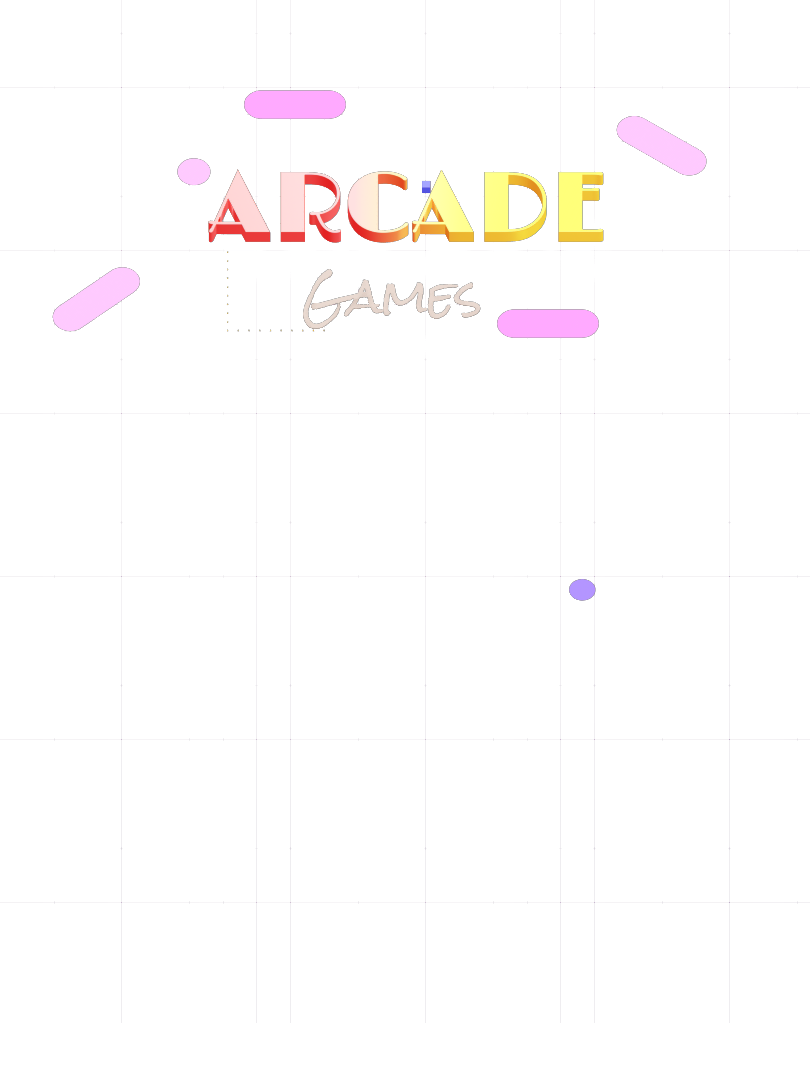
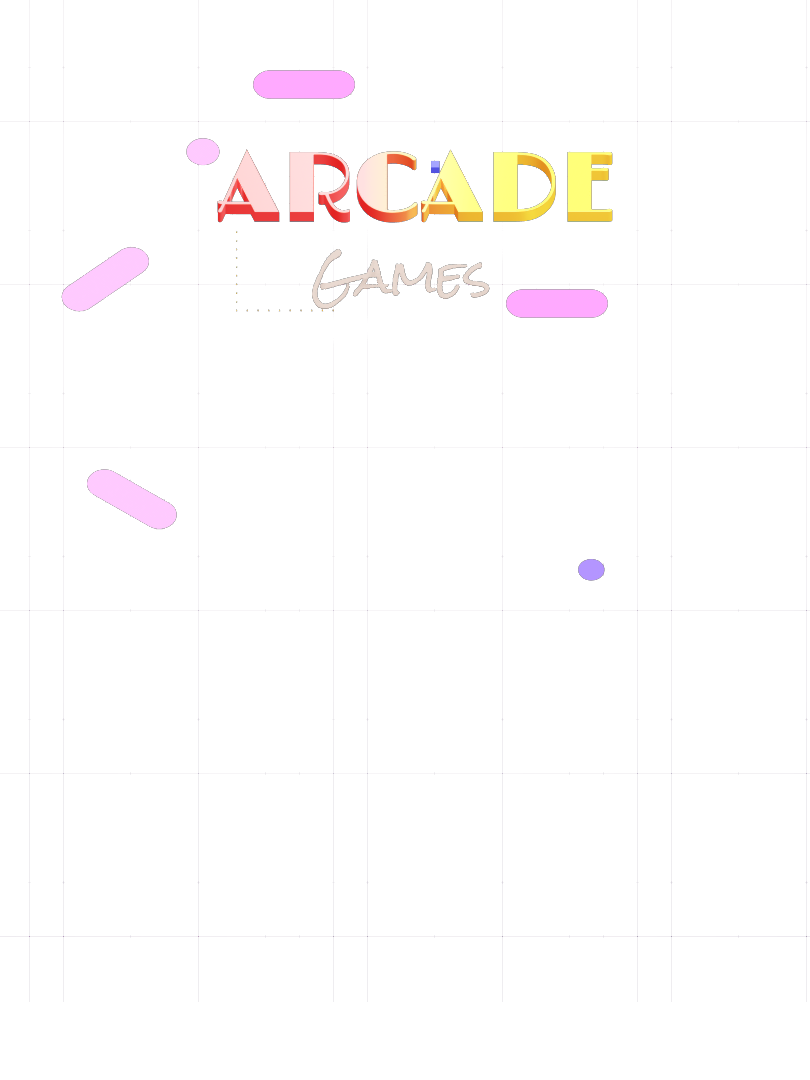
Send it

diff --git a/src/App.tsx b/src/App.tsx
@@ -41,7 +41,6 @@ function App() {
   function Credits() {
     const [credits, setCredits] = useState(0);
 
-    const [randomNumber, setRandomNumber] = useState(0);
 
     const fetchRandomNumber = async () => {
       console.log("fetchRandomNumber");
@@ -50,7 +49,7 @@ function App() {
 
         const data = await response.json();
         console.log("Result:", data.random_number);
-        setRandomNumber(data.random_number);
+        setCredits(data.random_number);
       } catch (error) {
         console.error("Error fetching random number:", error);
       }
@@ -61,7 +60,7 @@ function App() {
           Credits
         </div>
         <div className=" font-bold animate-blink text-8xl text-amber-700">
-          {randomNumber}
+          {credits}
         </div>
       </div>
     );

diff --git a/src/App.css b/src/App.css
@@ -4,7 +4,7 @@
   padding: 0rem;
   background-color: rgb(193, 192, 255);
   text-align: center;
-  background: url('../src/assets/header1.png') no-repeat center;
+  background: url('../src/assets/header.png') no-repeat center;
   background-size: cover;
   height: 100%;
   width: 100%;
